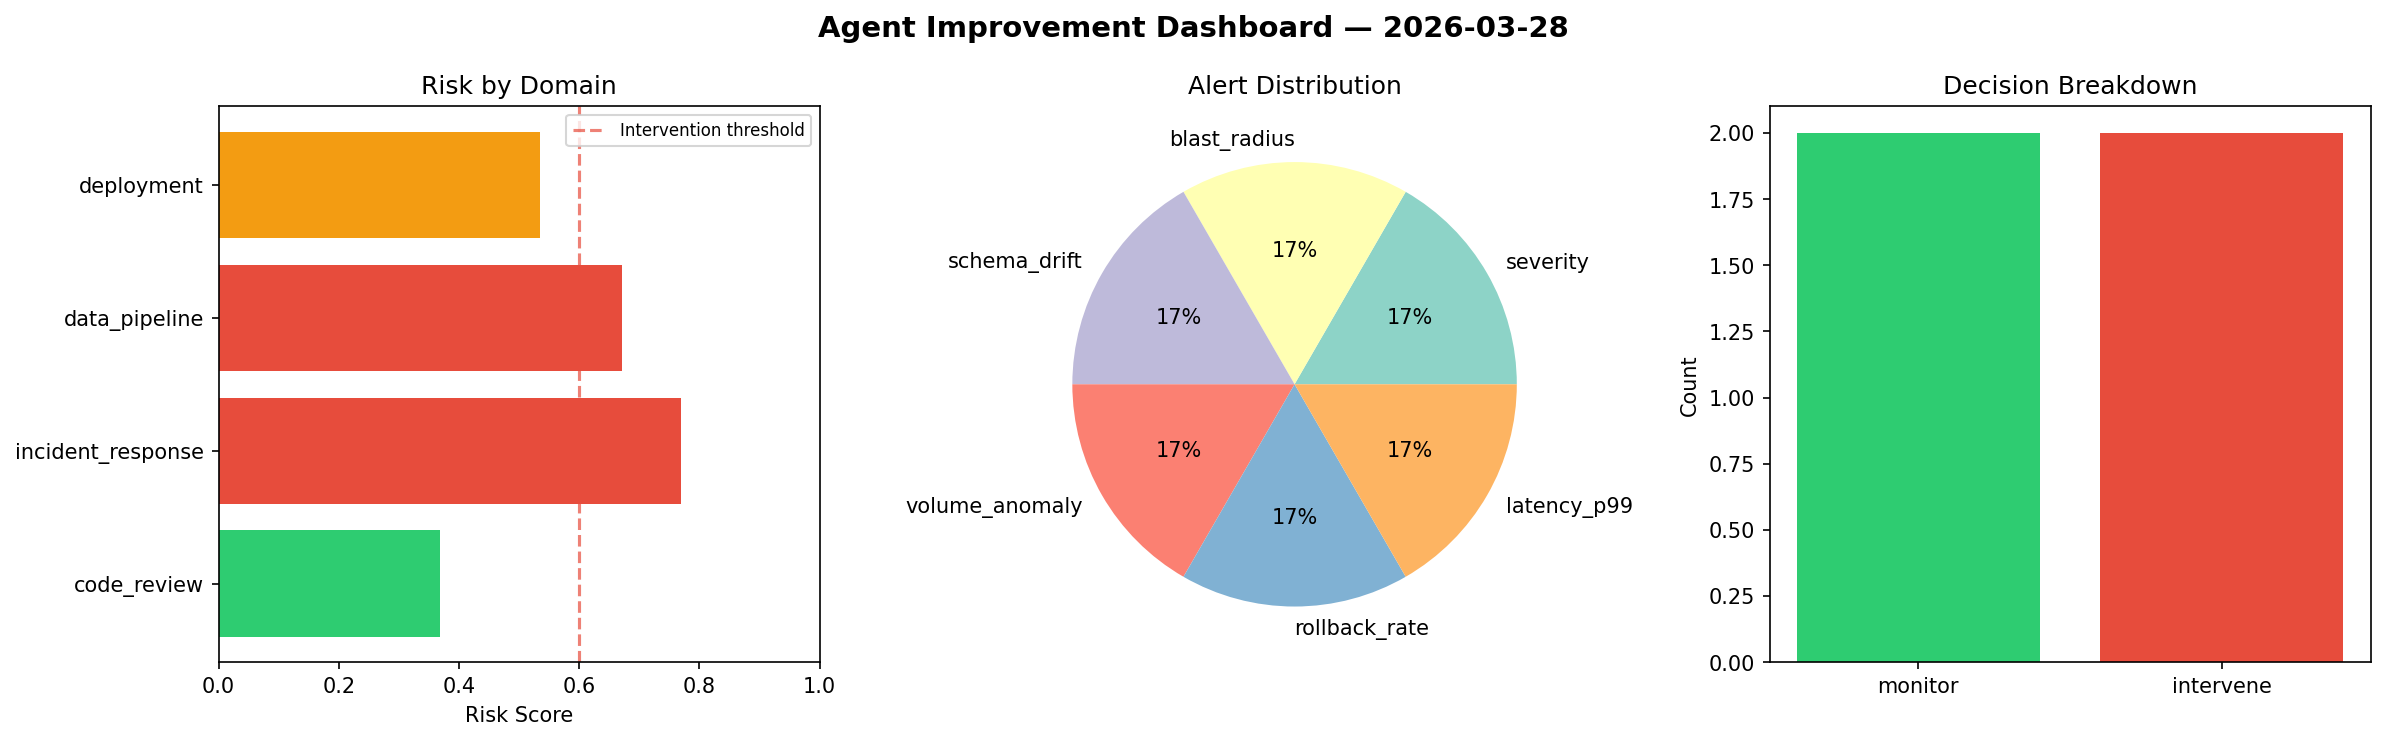
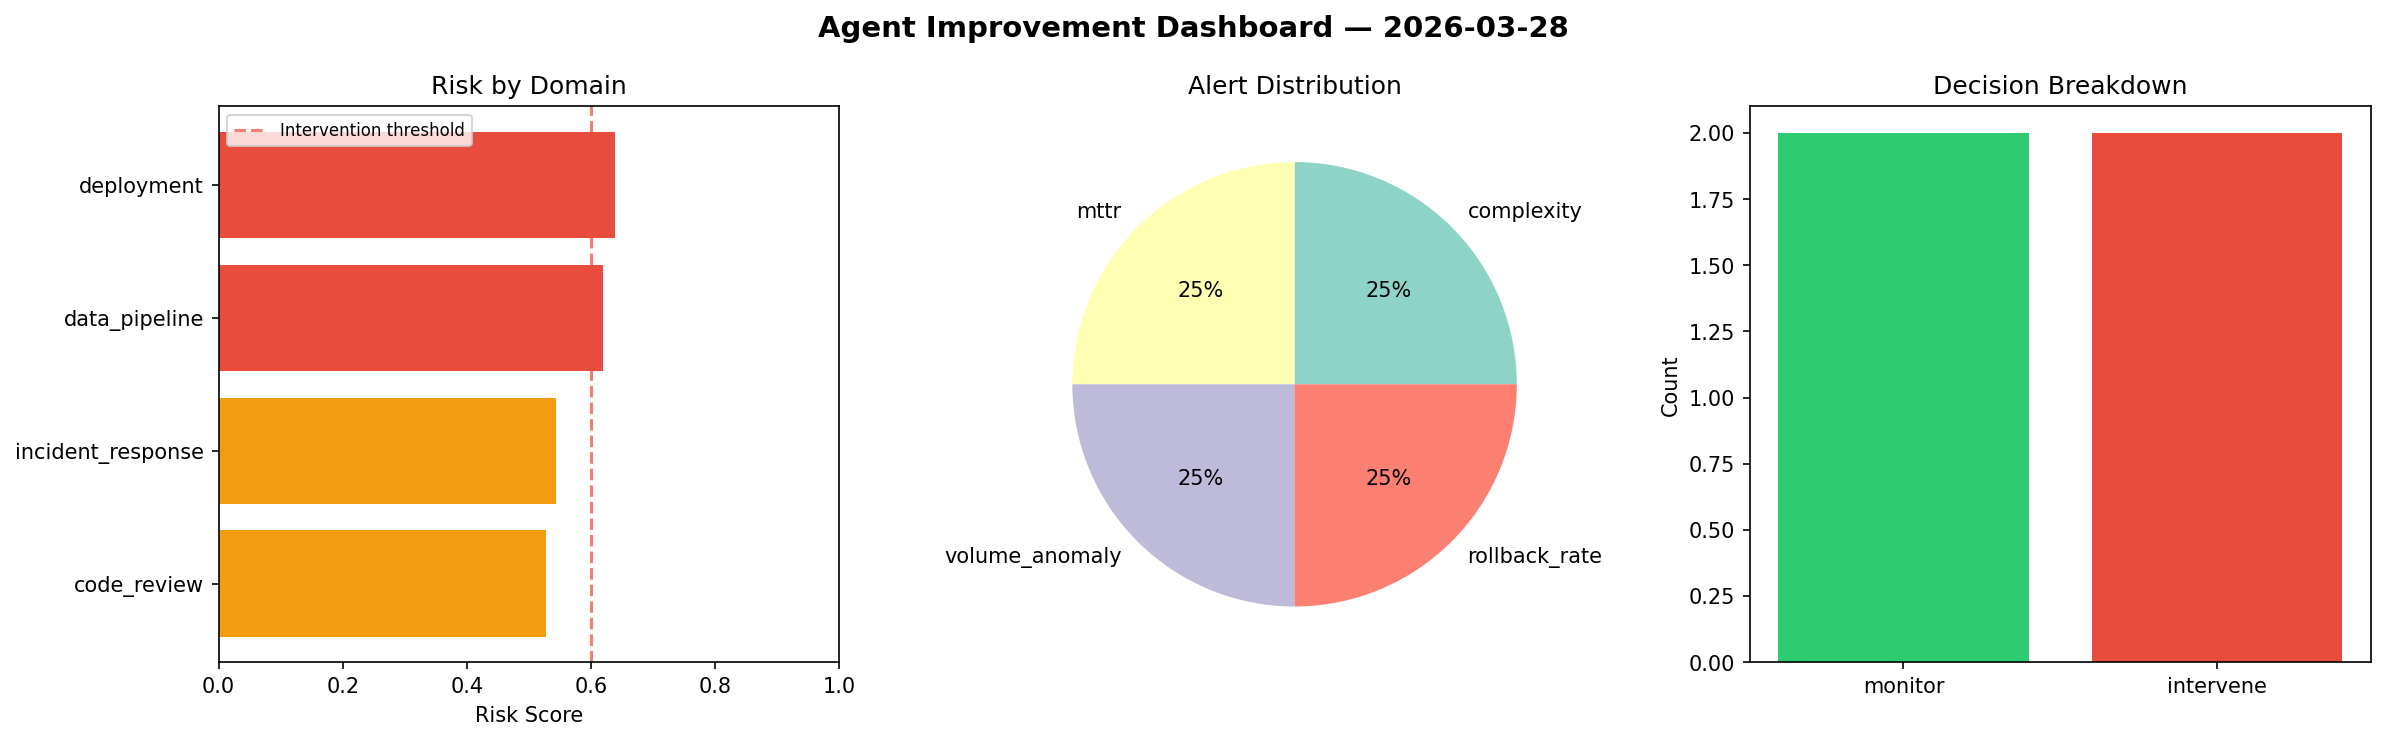
agent-improvement: daily cycle 2026-03-28T20:48

diff --git a/logs/2026-03-28.md b/logs/2026-03-28.md
@@ -1,6 +1,6 @@
 # Agent Improvement Report — 2026-03-28
 
-**Cycle ID:** `a838244e` | **Avg Risk:** 0.5866 | **Interventions:** 2/4
+**Cycle ID:** `38822098` | **Avg Risk:** 0.5822 | **Interventions:** 2/4
 
 ![Dashboard](2026-03-28_dashboard.png)
 
@@ -10,18 +10,18 @@
 
 | Domain | Risk Score | Decision | Alerts |
 |--------|-----------|----------|--------|
-| code_review | 0.369 | monitor | none |
-| incident_response | 0.7703 | intervene | severity, blast_radius |
-| data_pipeline | 0.672 | intervene | schema_drift, volume_anomaly |
-| deployment | 0.535 | monitor | rollback_rate, latency_p99 |
+| code_review | 0.5276 | monitor | complexity |
+| incident_response | 0.5439 | monitor | mttr |
+| data_pipeline | 0.6187 | intervene | volume_anomaly |
+| deployment | 0.6387 | intervene | rollback_rate |
 
 ## Delta vs Yesterday
 
 | Domain | Today | Yesterday | Change |
 |--------|-------|-----------|--------|
-| code_review | 0.369 | 0.6242 | 📉 -40.9% |
-| incident_response | 0.7703 | 0.6123 | 📈 25.8% |
-| data_pipeline | 0.672 | 0.4755 | 📈 41.3% |
-| deployment | 0.535 | 0.6437 | 📉 -16.9% |
+| code_review | 0.5276 | 0.6242 | 📉 -15.5% |
+| incident_response | 0.5439 | 0.6123 | 📉 -11.2% |
+| data_pipeline | 0.6187 | 0.4755 | 📈 30.1% |
+| deployment | 0.6387 | 0.6437 | 📉 -0.8% |
 
 **Refinement:** `{'adjustment': 'tighten_thresholds', 'trend': 'degrading', 'window': 4}`
